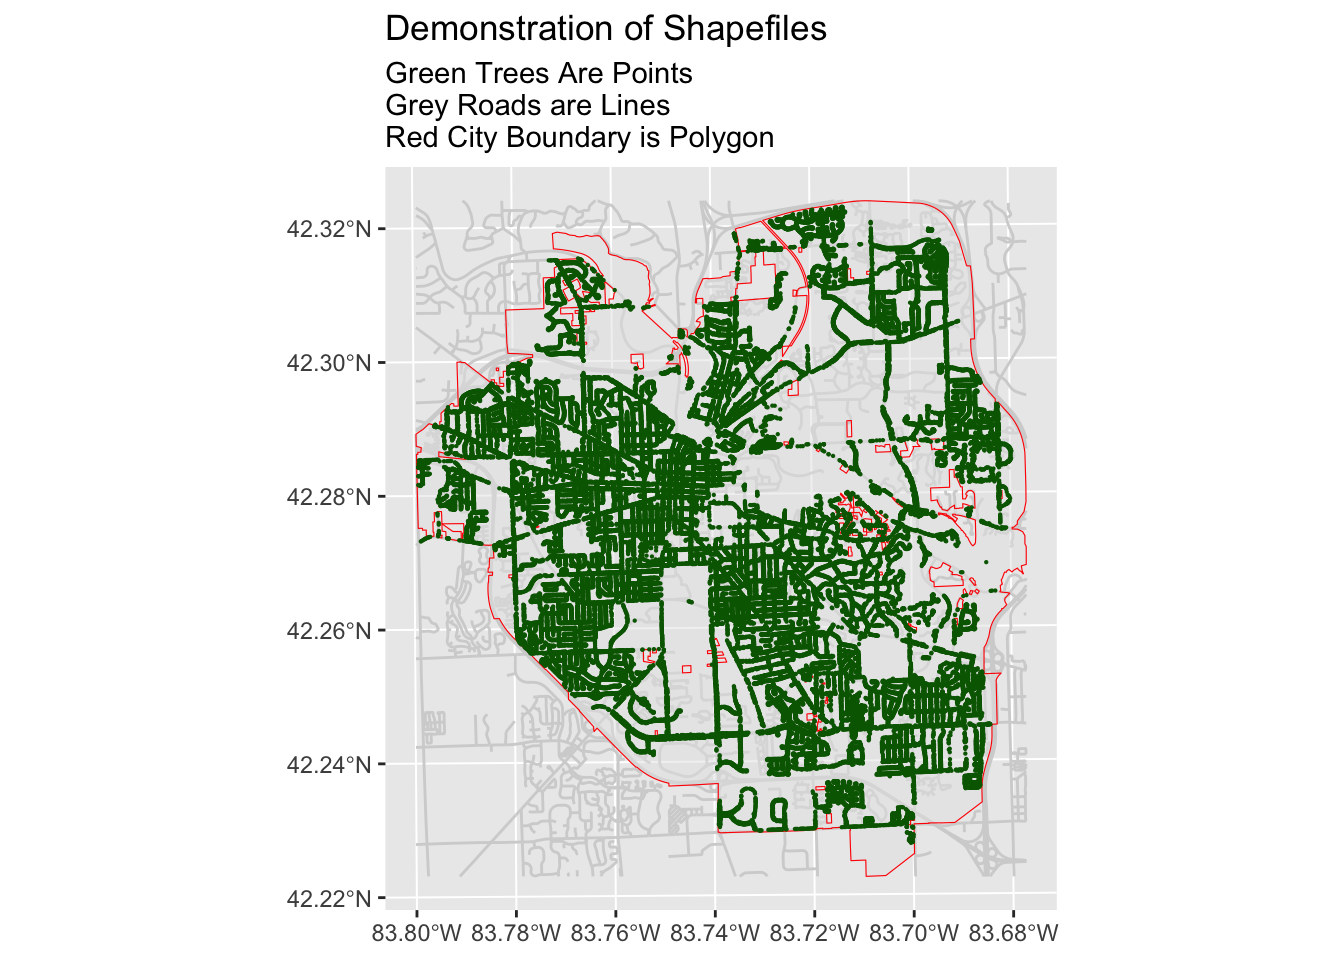
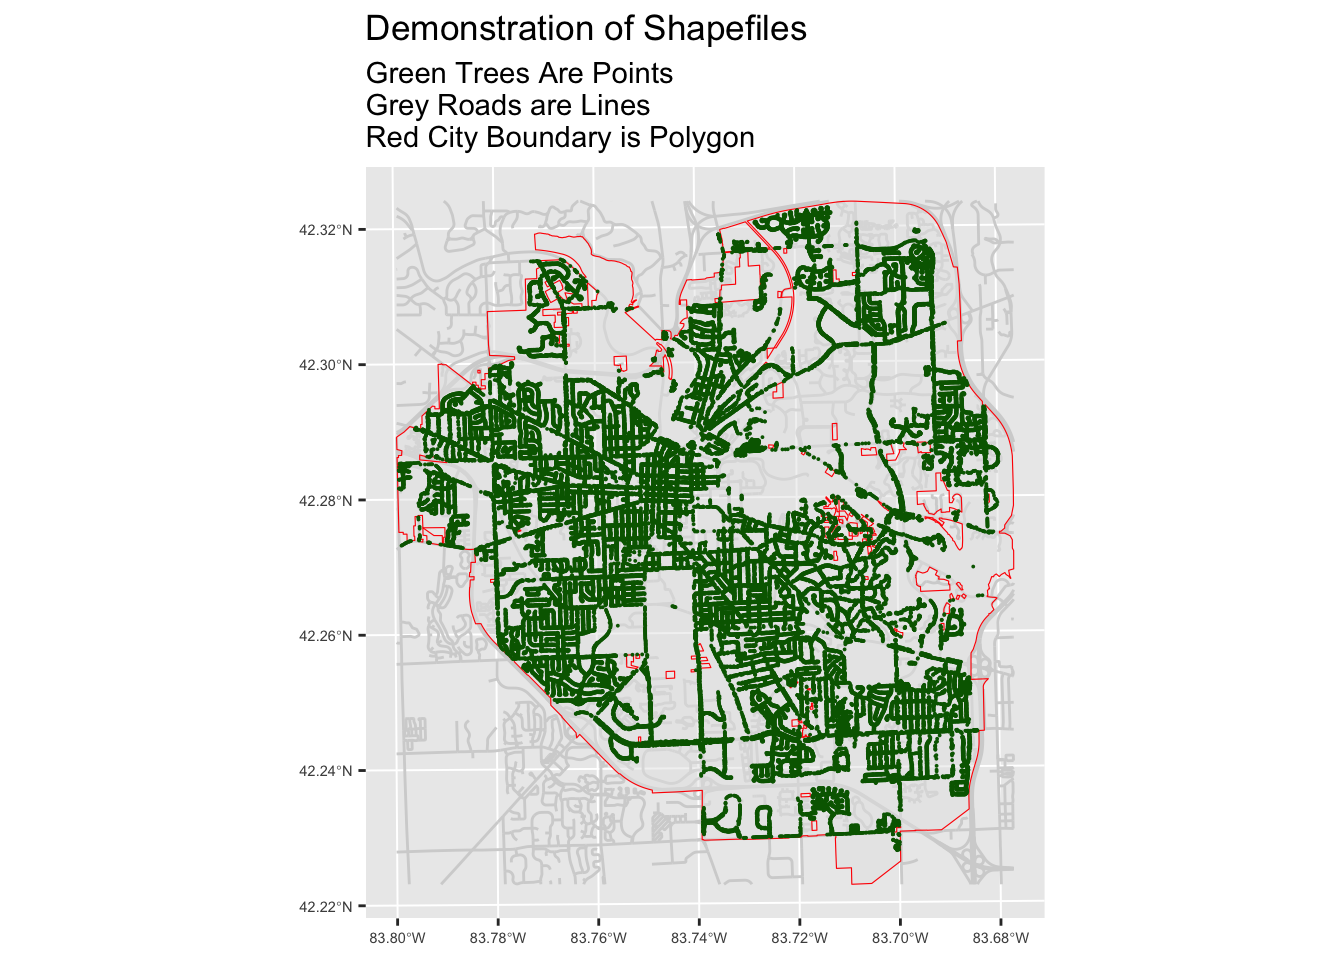
clarifications and map tweaks

Changed region(s): [[0.2188, 0.0, 0.8125, 1.0]]

diff --git a/shapefiles/shapefiles.html b/shapefiles/shapefiles.html
@@ -7,7 +7,7 @@
 <meta name="viewport" content="width=device-width, initial-scale=1.0, user-scalable=yes">
 
 <meta name="author" content="Andy Grogan-Kaylor">
-<meta name="dcterms.date" content="2023-04-06">
+<meta name="dcterms.date" content="2023-04-26">
 
 <title>Shapefiles</title>
 <style>
@@ -141,7 +141,7 @@ code span.wa { color: #60a0b0; font-weight: bold; font-style: italic; } /* Warni
     <div>
     <div class="quarto-title-meta-heading">Published</div>
     <div class="quarto-title-meta-contents">
-      <p class="date">April 6, 2023</p>
+      <p class="date">April 26, 2023</p>
     </div>
   </div>
   
@@ -164,7 +164,7 @@ blockquote {
 </div>
 <section id="introduction" class="level1" data-number="1">
 <h1 data-number="1"><span class="header-section-number">1</span> Introduction</h1>
-<p>Shapefiles are a spatial data format originally developed by ESRI[?].</p>
+<p>Shapefiles are a spatial data format originally developed by <a href="https://www.esri.com/en-us/home">ESRI</a>.</p>
 <p>Shapefiles come in three major types:</p>
 <ul>
 <li><strong>points</strong>, to represent point features such as individual or agency locations. At larger scales, cities or towns might also be points.</li>
@@ -174,7 +174,7 @@ blockquote {
 </section>
 <section id="shapefiles-are-lists-of-files" class="level1" data-number="2">
 <h1 data-number="2"><span class="header-section-number">2</span> Shapefiles Are Lists of Files</h1>
-<p>Shape<em>files</em> are actually a set of associated files, all with the same name, and all in the same directory, but different suffixes.</p>
+<p>Shape<em>files</em> are actually a <em>set</em> or <em>collection</em> of associated files, all with the same name, and all in the same directory, but different suffixes.</p>
 <p>R–and many other software programs–generally reference the <code>*.shp</code> file of the shapefile.</p>
 <div class="cell">
 <details>
@@ -231,17 +231,18 @@ blockquote {
 <div class="cell">
 <details>
 <summary>Show the code</summary>
-<div class="sourceCode cell-code" id="cb5"><pre class="sourceCode r code-with-copy"><code class="sourceCode r"><span id="cb5-1"><a href="#cb5-1" aria-hidden="true" tabindex="-1"></a><span class="fu">ggplot</span>(city_boundary) <span class="sc">+</span></span>
+<div class="sourceCode cell-code" id="cb5"><pre class="sourceCode r code-with-copy"><code class="sourceCode r"><span id="cb5-1"><a href="#cb5-1" aria-hidden="true" tabindex="-1"></a><span class="fu">ggplot</span>(city_boundary) <span class="sc">+</span> <span class="co"># initial sf data</span></span>
 <span id="cb5-2"><a href="#cb5-2" aria-hidden="true" tabindex="-1"></a>  <span class="co"># geom_sf(data = buildings,</span></span>
 <span id="cb5-3"><a href="#cb5-3" aria-hidden="true" tabindex="-1"></a>  <span class="co">#         fill = "lightgrey") +</span></span>
-<span id="cb5-4"><a href="#cb5-4" aria-hidden="true" tabindex="-1"></a>  <span class="fu">geom_sf</span>(<span class="at">data =</span> AnnArborRoads, </span>
+<span id="cb5-4"><a href="#cb5-4" aria-hidden="true" tabindex="-1"></a>  <span class="fu">geom_sf</span>(<span class="at">data =</span> AnnArborRoads, <span class="co"># first layer: Ann Arbor roads </span></span>
 <span id="cb5-5"><a href="#cb5-5" aria-hidden="true" tabindex="-1"></a>          <span class="at">color =</span> <span class="st">"lightgrey"</span>) <span class="sc">+</span></span>
-<span id="cb5-6"><a href="#cb5-6" aria-hidden="true" tabindex="-1"></a>  <span class="fu">geom_sf</span>(<span class="at">color =</span> <span class="st">"red"</span>, <span class="at">alpha =</span> .<span class="dv">5</span>) <span class="sc">+</span> </span>
-<span id="cb5-7"><a href="#cb5-7" aria-hidden="true" tabindex="-1"></a>  <span class="fu">geom_sf</span>(<span class="at">data =</span> trees, </span>
-<span id="cb5-8"><a href="#cb5-8" aria-hidden="true" tabindex="-1"></a>          <span class="at">size =</span> .<span class="dv">1</span>, </span>
+<span id="cb5-6"><a href="#cb5-6" aria-hidden="true" tabindex="-1"></a>  <span class="fu">geom_sf</span>(<span class="at">color =</span> <span class="st">"red"</span>, <span class="at">alpha =</span> .<span class="dv">5</span>) <span class="sc">+</span> <span class="co"># second layer: city boundary</span></span>
+<span id="cb5-7"><a href="#cb5-7" aria-hidden="true" tabindex="-1"></a>  <span class="fu">geom_sf</span>(<span class="at">data =</span> trees, <span class="co"># third layer: trees</span></span>
+<span id="cb5-8"><a href="#cb5-8" aria-hidden="true" tabindex="-1"></a>          <span class="at">size =</span> .<span class="dv">01</span>,</span>
 <span id="cb5-9"><a href="#cb5-9" aria-hidden="true" tabindex="-1"></a>          <span class="at">color =</span> <span class="st">"darkgreen"</span>) <span class="sc">+</span></span>
 <span id="cb5-10"><a href="#cb5-10" aria-hidden="true" tabindex="-1"></a>  <span class="fu">labs</span>(<span class="at">title =</span> <span class="st">"Demonstration of Shapefiles"</span>,</span>
-<span id="cb5-11"><a href="#cb5-11" aria-hidden="true" tabindex="-1"></a>       <span class="at">subtitle =</span> <span class="st">"Green Trees Are Points </span><span class="sc">\n</span><span class="st">Grey Roads are Lines </span><span class="sc">\n</span><span class="st">Red City Boundary is Polygon"</span>) </span></code><button title="Copy to Clipboard" class="code-copy-button"><i class="bi"></i></button></pre></div>
+<span id="cb5-11"><a href="#cb5-11" aria-hidden="true" tabindex="-1"></a>       <span class="at">subtitle =</span> <span class="st">"Green Trees Are Points </span><span class="sc">\n</span><span class="st">Grey Roads are Lines </span><span class="sc">\n</span><span class="st">Red City Boundary is Polygon"</span>) <span class="sc">+</span></span>
+<span id="cb5-12"><a href="#cb5-12" aria-hidden="true" tabindex="-1"></a>  <span class="fu">theme</span>(<span class="at">axis.text =</span> <span class="fu">element_text</span>(<span class="at">size =</span> <span class="fu">rel</span>(.<span class="dv">5</span>)))</span></code><button title="Copy to Clipboard" class="code-copy-button"><i class="bi"></i></button></pre></div>
 </details>
 <div class="cell-output-display">
 <p><img src="shapefiles_files/figure-html/unnamed-chunk-5-1.png" class="img-fluid" width="672"></p>
